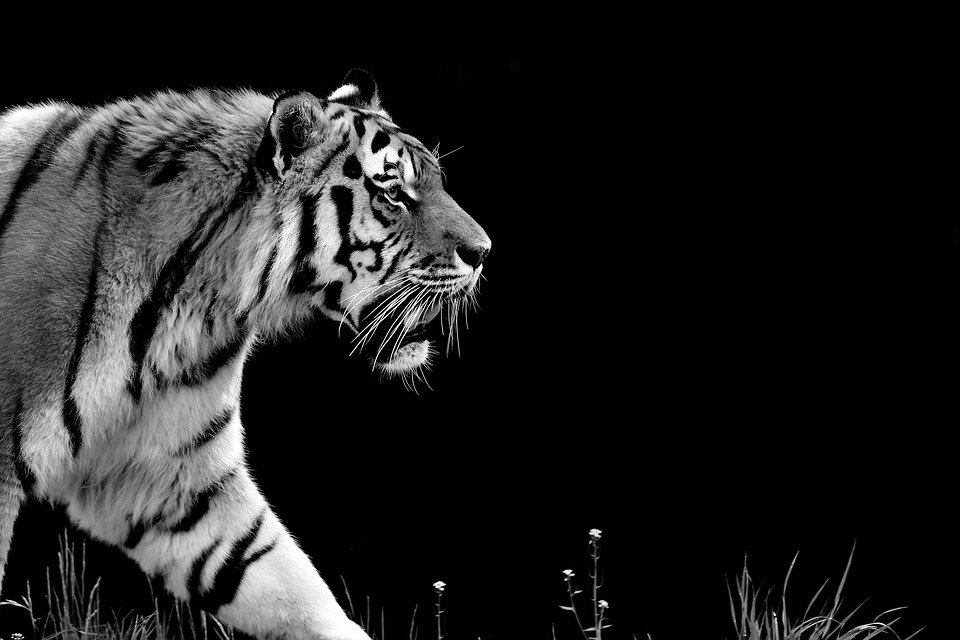
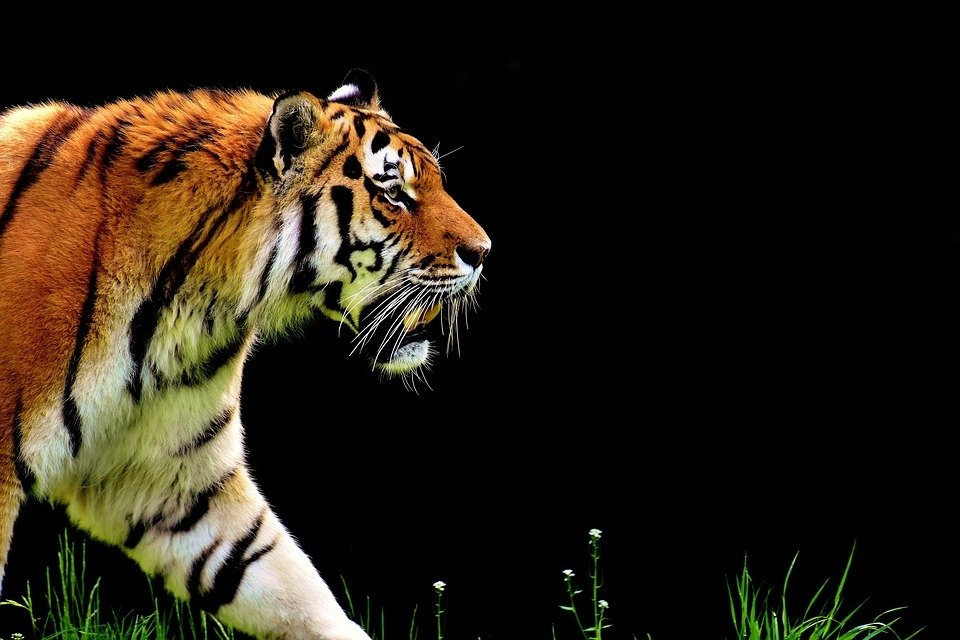
Rotación de imagenes CV2

diff --git a/practice1Checkerboard/readimg.py b/practice1Checkerboard/readimg.py
@@ -1,8 +1,11 @@
 import cv2
 
-img = cv2.imread('Tigre.jpg', cv2.IMREAD_GRAYSCALE)
-cv2.imshow("La imagen procesada mas malota", img)
+img = cv2.imread('Tigre.jpg', cv2.IMREAD_UNCHANGED)
 cv2.imwrite("Tigrito.jpg", img)
+cv2.imshow("La imagen procesada mas malota", img)
+
+img2 = cv2.rotate(img,cv2.ROTATE_90_CLOCKWISE)
+cv2.imshow("Mi compa toño tumbao", img2)
 
 #Un rectangulo largote
 #cv2.rectangle(img,(0, 28),(84,56),(0,0,0),-1)
@@ -15,6 +18,7 @@ cv2.imwrite("Tigrito.jpg", img)
 #cv2.rectangle(img,(27, 0), (55, 28), (0,0,0),-1)
 #cv2.rectangle(img,(27, 56), (56, 84), (0,0,0),-1)
 
+#Funciones
 #print(img)
 print(img.shape)
 print(type(img))

diff --git a/practice1Checkerboard/rotateimg.py b/practice1Checkerboard/rotateimg.py
@@ -1,0 +1,12 @@
+import cv2
+import numpy
+
+img = cv2.imread("Tigre.jpg", cv2.IMREAD_UNCHANGED)
+cv2.imshow("Mexico desperto", img)
+
+num_rows, num_cols = img.shape[:2]
+rotation_matrix = cv2.getRotationMatrix2D((num_cols/2, num_rows/2), -45, 1)
+img2 = cv2.warpAffine(img, rotation_matrix, (num_cols, num_rows))
+cv2.imshow("EL tigre mas rotado", img2)
+
+cv2.waitKey(0)
